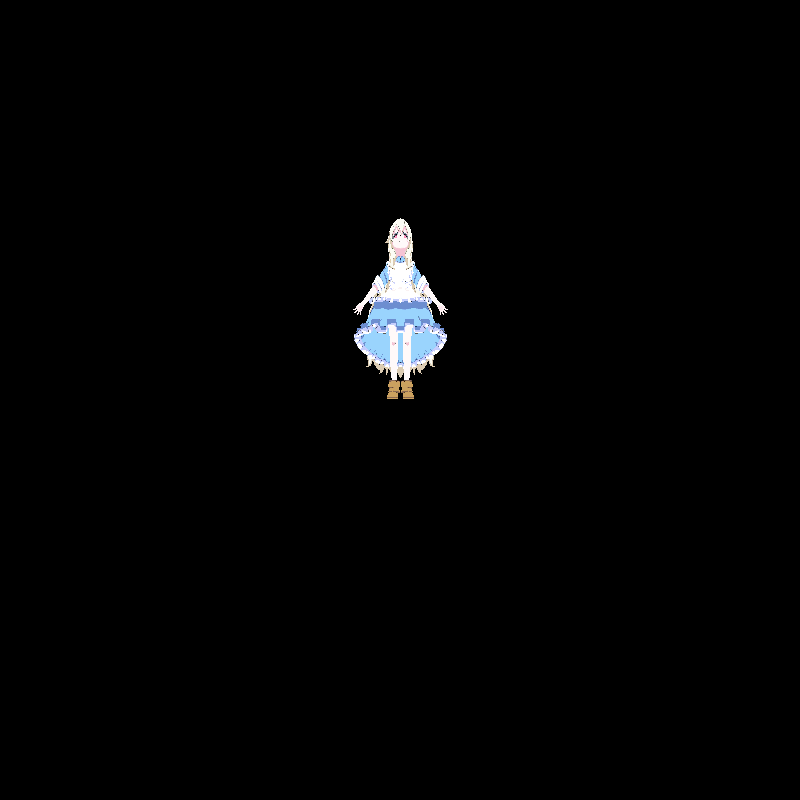
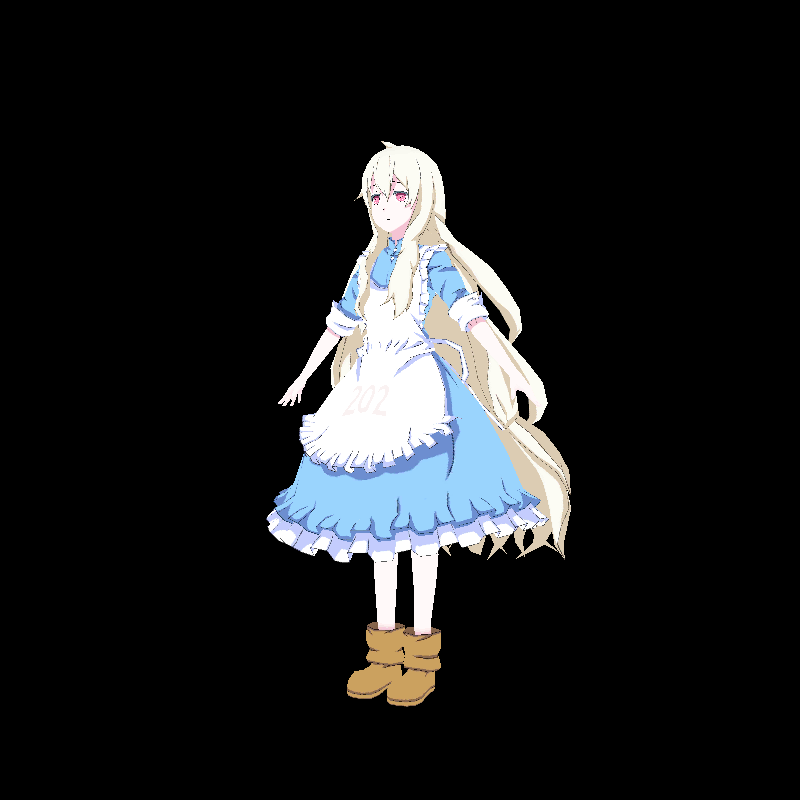
TexShader

Changed region(s): [[0.3125, 0.1562, 0.7188, 0.9062]]

diff --git a/Rasterizer/rasterizer.cpp b/Rasterizer/rasterizer.cpp
@@ -6,7 +6,7 @@ int NUM_THREADS = 8;
 
 Matrix MAT_MODEL = Matrix::identity(4);
 Matrix MAT_VIEW = Matrix::identity(4);
-Matrix MAT_PERS_PROJECT = Matrix::identity(4);
+Matrix MAT_PROJECT = Matrix::identity(4);
 Matrix MAT_ORTHO_PROJECT = Matrix::identity(4);
 Matrix MAT_SCREEN = Matrix::identity(4);     // 屏幕空间
 Matrix MAT_TRANS = Matrix::identity(4);
@@ -15,6 +15,9 @@ void LookAt(Vec3f eye, Vec3f center, Vec3f up) {
     Vec3f z = (eye - center).normalize();
     Vec3f x = (up^z).normalize();
     Vec3f y = (z^x).normalize();
+    std::cout << x;
+    std::cout << y;
+    std::cout << z;
     Matrix viewMatrix = Matrix::identity(4);
     Matrix mat = Matrix::identity(4);
     for (int i = 0; i < 3; ++i) {
@@ -26,42 +29,16 @@ void LookAt(Vec3f eye, Vec3f center, Vec3f up) {
     MAT_VIEW = viewMatrix*mat;
 }
 
-void SetPerspectiveProjectMat(float near, float far) {
-    MAT_PERS_PROJECT = Matrix::identity(4);
-    MAT_PERS_PROJECT[0][0] = near;
-    MAT_PERS_PROJECT[1][1] = near;
-    MAT_PERS_PROJECT[2][2] = near+far;
-    MAT_PERS_PROJECT[2][3] = -near*far;
-    MAT_PERS_PROJECT[3][2] = 1;
-}
-
-void SetOrthogonalProjectMat(int l, int r, int b, int t, int n, int f) {
-    MAT_ORTHO_PROJECT = Matrix::identity(4);
-    Matrix scale = Matrix::identity(4);
-    scale[0][0] = 2.0f/(r-l);
-    scale[1][1] = 2.0f/(t-b);
-    scale[2][2] = 2.0f/(n-f);
-
-    Matrix traslate = Matrix::identity(4);
-    traslate[0][3] = -(r+l)/2.0f;
-    traslate[1][3] = -(t+b)/2.0f;
-    traslate[2][3] = -(n+f)/2.0f;
-
-    MAT_ORTHO_PROJECT = scale*traslate*MAT_ORTHO_PROJECT;    
-}
-void SetOrthogonalProjectMat(int width, int height, int depth) {
-    MAT_ORTHO_PROJECT = Matrix::identity(4);
-    Matrix scale = Matrix::identity(4);
-    scale[0][0] = 2.0f/width;
-    scale[1][1] = 2.0f/height;
-    scale[2][2] = 2.0f/depth;
-    Matrix traslate = Matrix::identity(4);
-    MAT_ORTHO_PROJECT = scale*traslate*MAT_ORTHO_PROJECT;
-}
-
-void SetPerspectiveProjectMat(Vec3f camera, Vec3f origin) {
-    MAT_PERS_PROJECT = Matrix::identity(4);
-    MAT_PERS_PROJECT[3][2] = -1.f/(camera-origin).norm();
+void SetProjectMat(float fov, float ratio, float near, float far) {
+    MAT_PROJECT = Matrix::identity(4);
+    float d = 1/tan((fov/2)*M_PI/180);
+    float A = -(near+far)/(far-near);
+    float B = -2*far*near/(far-near);
+    MAT_PROJECT[0][0] = d/ratio;
+    MAT_PROJECT[1][1] = d;
+    MAT_PROJECT[2][2] = A;
+    MAT_PROJECT[2][3] = B;
+    MAT_PROJECT[3][2] = -1;
 }
 
 // 计算屏幕坐标
@@ -80,7 +57,7 @@ void SetScreenMat(int x, int y, int w, int h, int depth) {
 }
 
 void Init() {
-    MAT_TRANS = MAT_SCREEN*MAT_ORTHO_PROJECT*MAT_PERS_PROJECT*MAT_VIEW*MAT_MODEL;
+    MAT_TRANS = MAT_SCREEN*MAT_PROJECT*MAT_VIEW*MAT_MODEL;
 }
 
 Vec3f barycentric(Vec4f *pts, Vec2f P) {
@@ -111,21 +88,24 @@ void DrawTriangle(Vec4f *points, RasterNode &rn) {
         bboxmax.x = std::max(bboxmax.x, points[i].x);
         bboxmax.y = std::max(bboxmax.y, points[i].y);
     }
-    bboxmin.x = std::min(0.f, bboxmin.x);
-    bboxmin.y = std::min(0.f, bboxmin.y);
-    bboxmax.x = std::max(clamp.x, bboxmax.x);
-    bboxmax.y = std::max(clamp.y, bboxmax.y);
+    bboxmin.x = std::max(0.f, bboxmin.x);
+    bboxmin.y = std::max(0.f, bboxmin.y);
+    bboxmax.x = std::min(clamp.x, bboxmax.x);
+    bboxmax.y = std::min(clamp.y, bboxmax.y);
 
     Vec2i P;
     Vec3f bc;
     float z, w, depth, weight;
+    // std::cout << bboxmin;
+    // std::cout << bboxmax;
     for (P.y=bboxmin.y; P.y<=bboxmax.y; P.y++) {
         for (P.x=bboxmin.x; P.x<=bboxmax.x; P.x++) {
             bc = barycentric(points, Vec2f(P.x, P.y));
             z = points[0][2]*bc.x+points[1][2]*bc.y+points[2][2]*bc.z;
             w = points[0][3]*bc.x+points[1][3]*bc.y+points[2][3]*bc.z;
-            depth = std::max(0.f, std::min(1.0f, z/w));
-            if (bc.x < 0 || bc.y < 0 || bc.z < 0 || zbuffer->get(P.x, P.y) > depth) continue;
+            // z = z/w;
+            // depth = std::max(0.f, std::min(1.0f, z/w));
+            if (bc.x < 0 || bc.y < 0 || bc.z < 0 || zbuffer->get(P.x, P.y) > z) continue;
             InFrag in;
             OutFrag out;
             in.bar = bc;

diff --git a/Models/model.cpp b/Models/model.cpp
@@ -31,7 +31,12 @@ StrangeModel::StrangeModel(const char *filename) : verts(), normals(), textures(
         if (!line.compare(0, 2, "v ")) {    // 点
             iss >> trash;
             Vec3f v;
-            for (int i=0;i<3;i++) iss >> v[i];
+            for (int i=0;i<3;i++) {
+                iss >> v[i];
+            }
+            // v[0] = -v[0];
+            // v[1] = -v[1];
+            // v[2] = -v[2];
             verts.push_back(v);
         } else if (!line.compare(0, 2, "f ")) { // 面
             Vec3i v, vn, vt;
@@ -222,6 +227,33 @@ void StrangeModel::translate(float x, float y, float z) {
         v = trans*v;
         verts[i] = v.v3f();
     }
+}
+
+void StrangeModel::rotate(float x, float y, float z) {
+    Matrix rx = Matrix::identity(4);
+    Matrix ry = Matrix::identity(4);
+    Matrix rz = Matrix::identity(4);
+
+    rx[1][1] = rx[2][2] = cos(x*M_PI/180);
+    rx[2][1] = sin(x*M_PI/180);
+    rx[1][2] = -rx[2][1];
+
+    ry[0][0] = ry[2][2] = cos(y*M_PI/180);
+    ry[0][2] = sin(y*M_PI/180);
+    ry[2][0] = -ry[0][2];
+
+    rz[0][0] = rz[1][1] = cos(z*M_PI/180);
+    rz[1][0] = sin(z*M_PI/180);
+    rz[0][1] = -rz[1][0];
+
+    Matrix r = rx*ry*rz;
+
+    Vec4f v;
+    for (int i = 0; i < verts.size(); ++i) {
+        v = Vec4f(verts[i], 1.0f);
+        v = r*v;
+        verts[i] = v.v3f();
+    }    
 }
 
 

diff --git a/main.cpp b/main.cpp
@@ -8,18 +8,18 @@ using namespace QGL;
 void Lab_0() {
     const int width = 800;
     const int height = 800;
-    const int depth = 1;
+    const int depth = 200;
     const float near = 1.f;
-    const float far = 150.f;
+    const float far = 100.f;
+    const float fov = 45.f;
+    const float ratio = 1.f;
 
-    const Vec3f camera(0,0,1);
-    const Vec3f origin(0,0,0);
+    const Vec3f camera(0,0.5,1);
+    const Vec3f center(0,0.5,0);
     const Vec3f up(0,1,0);
 
-    LookAt(camera, origin, up);
-    // SetPerspectiveProjectMat(near, far);
-    QGL::SetPerspectiveProjectMat(camera, origin);
-    SetOrthogonalProjectMat(width, height, depth);
+    LookAt(camera, center, up);
+    SetProjectMat(fov, ratio, near, far);
     SetScreenMat(0, 0, width, height, depth);
 
     Init();
@@ -27,7 +27,9 @@ void Lab_0() {
     // 加载模型
     StrangeModel *marry = new StrangeModel("../asset/Marry/Marry.obj");
     marry->loadMap("../asset/Marry/MC003_Kozakura_Mari.png", QGL::MT_Diffuse);
-    marry->scale(100, 100, 1);
+    marry->scale(1, 1, 1);
+    marry->rotate(0, -30, 0);
+    marry->translate(0, -0.4, -2);
 
     // 
     Frame frame = Frame(width, height, 4);

diff --git a/Rasterizer/rasterizer.h b/Rasterizer/rasterizer.h
@@ -14,7 +14,7 @@ extern int NUM_THREADS;
 // 一系列变换矩阵
 extern Matrix MAT_MODEL;
 extern Matrix MAT_VIEW;
-extern Matrix MAT_PERS_PROJECT;
+extern Matrix MAT_PROJECT;
 extern Matrix MAT_ORTHO_PROJECT;
 extern Matrix MAT_SCREEN;
 extern Matrix MAT_TRANS;
@@ -32,9 +32,7 @@ struct RasterNode {
 
 
 void LookAt(Vec3f eye, Vec3f center, Vec3f up);
-void SetPerspectiveProjectMat(float near, float far);
-void SetOrthogonalProjectMat(int l, int r, int b, int t, int n, int f);
-void SetOrthogonalProjectMat(int w, int h, int depth);
+void SetProjectMat(float fov, float ratio, float near, float far);
 void SetScreenMat(int x, int y, int w, int h, int depth);
 
 void SetPerspectiveProjectMat(Vec3f camera, Vec3f origin);

diff --git a/QGL/pieces.h b/QGL/pieces.h
@@ -42,7 +42,7 @@ struct Zbuffer {
     int height;
     std::vector<float> zbuffer;
     Zbuffer(int w, int h) : width(w), height(h){
-        zbuffer = std::vector<float>(w*h, 0.0f);
+        zbuffer = std::vector<float>(w*h, -std::numeric_limits<float>::max());
     }
     float get(int i, int j) {
         return zbuffer[i+width*j];
@@ -51,7 +51,7 @@ struct Zbuffer {
         zbuffer[i+width*j] = z;
     }
     void clear() {
-        std::fill(zbuffer.begin(), zbuffer.end(), 0.0f);
+        std::fill(zbuffer.begin(), zbuffer.end(), -std::numeric_limits<float>::max());
     }
 };
 

diff --git a/Shaders/TexShader.h b/Shaders/TexShader.h
@@ -13,8 +13,10 @@ public:
     Vec2f varying_uv[3];
     virtual void vertex(const InVert &in, OutVert &out) {
         Vec4f vertex = Vec4f(in.v, 1.0f);
+        float depth = vertex[2];
         vertex = uniform_mat_transform*vertex;
         vertex = vertex / vertex.w;
+        vertex[2] = depth;
         out.sCoord = vertex;
 
         // tex

diff --git a/Models/model.h b/Models/model.h
@@ -65,6 +65,7 @@ public:
 	virtual Vec3f randomRay(int nthface);
 	void scale(float width, float height, float depth);
 	void translate(float x, float y, float z);
+	void rotate(float x, float y, float z);
 };
 
 class BuildinModel : public Model {

diff --git a/Shaders/shader.h b/Shaders/shader.h
@@ -16,6 +16,7 @@ struct InVert {
 
 struct OutVert {
     Vec4f sCoord;   // 屏幕坐标
+    float depth;
     OutVert(){}
 };
 
